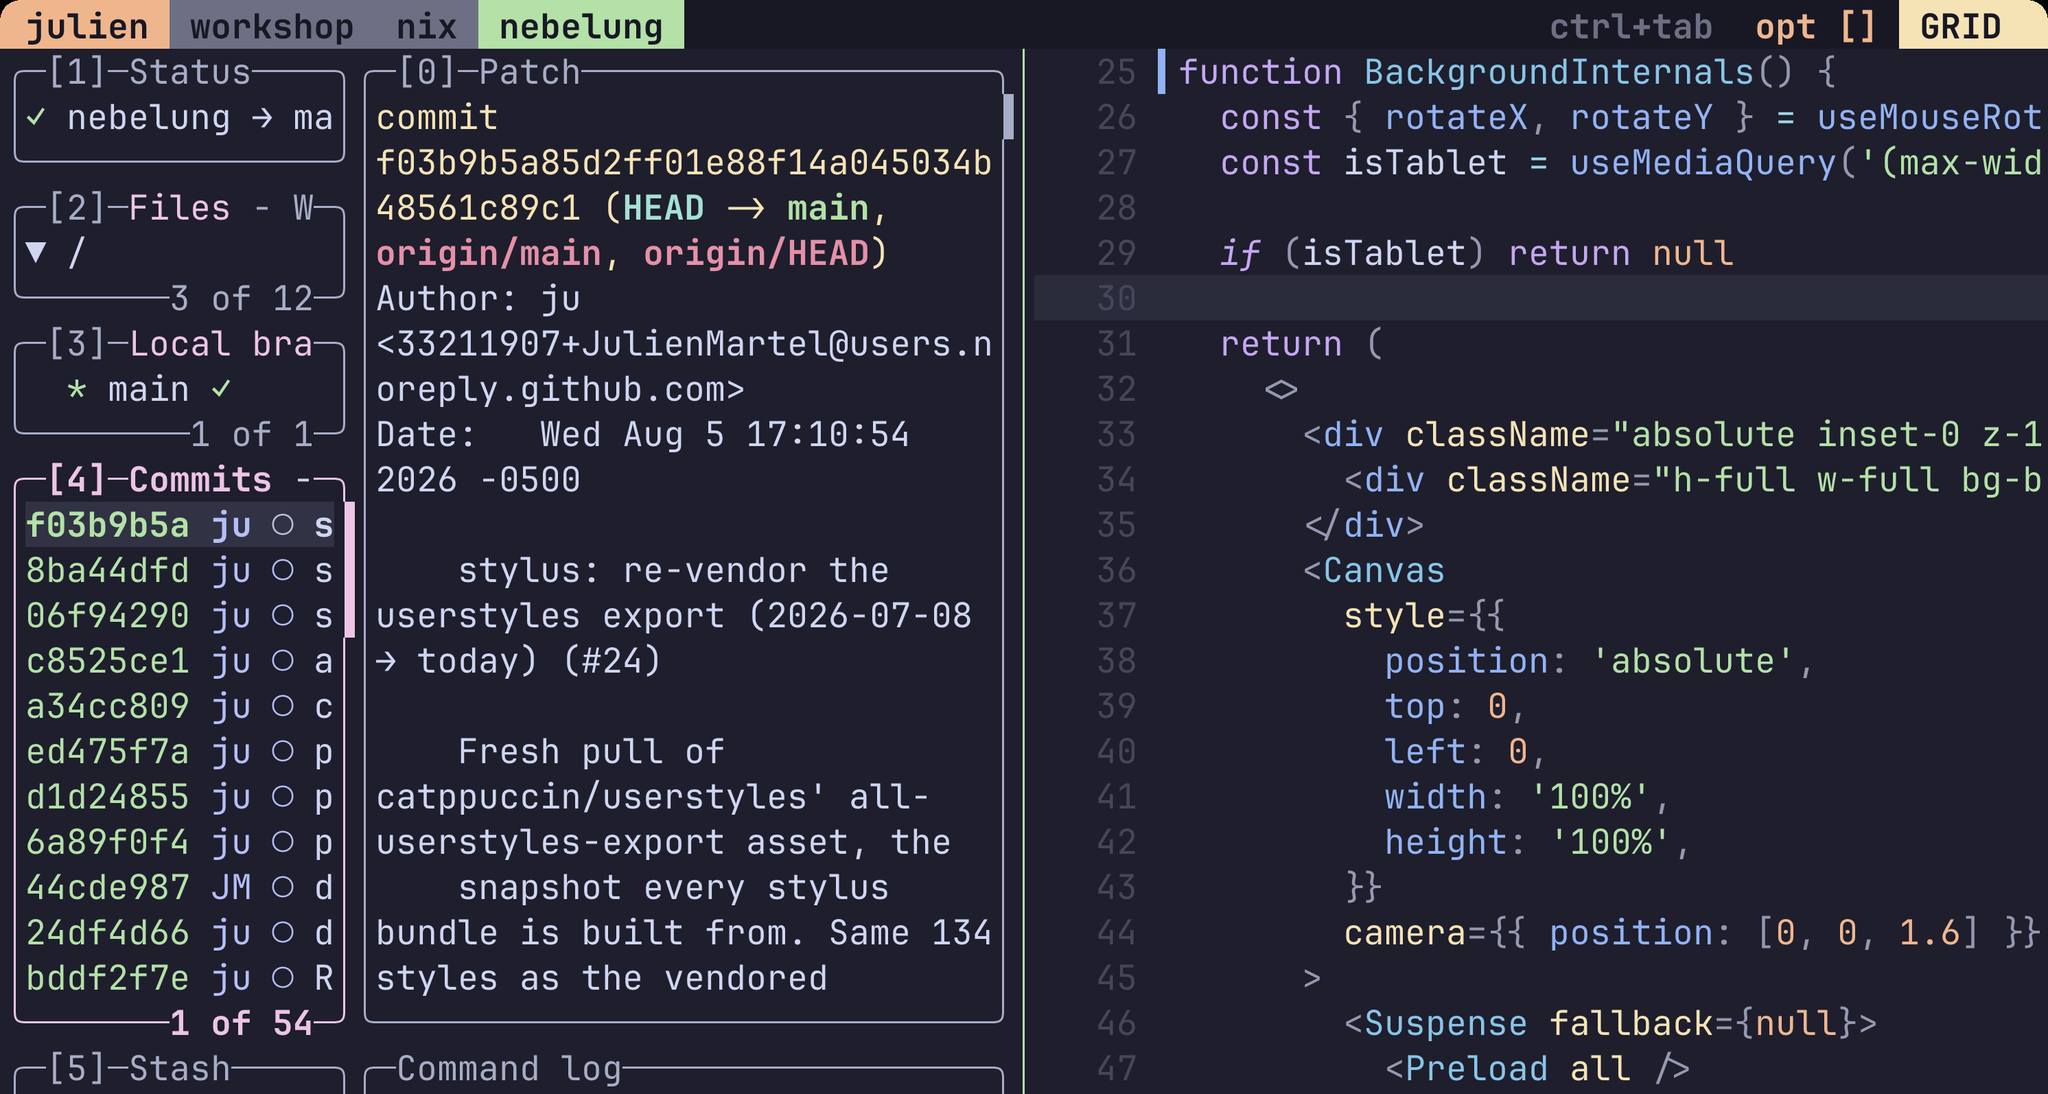
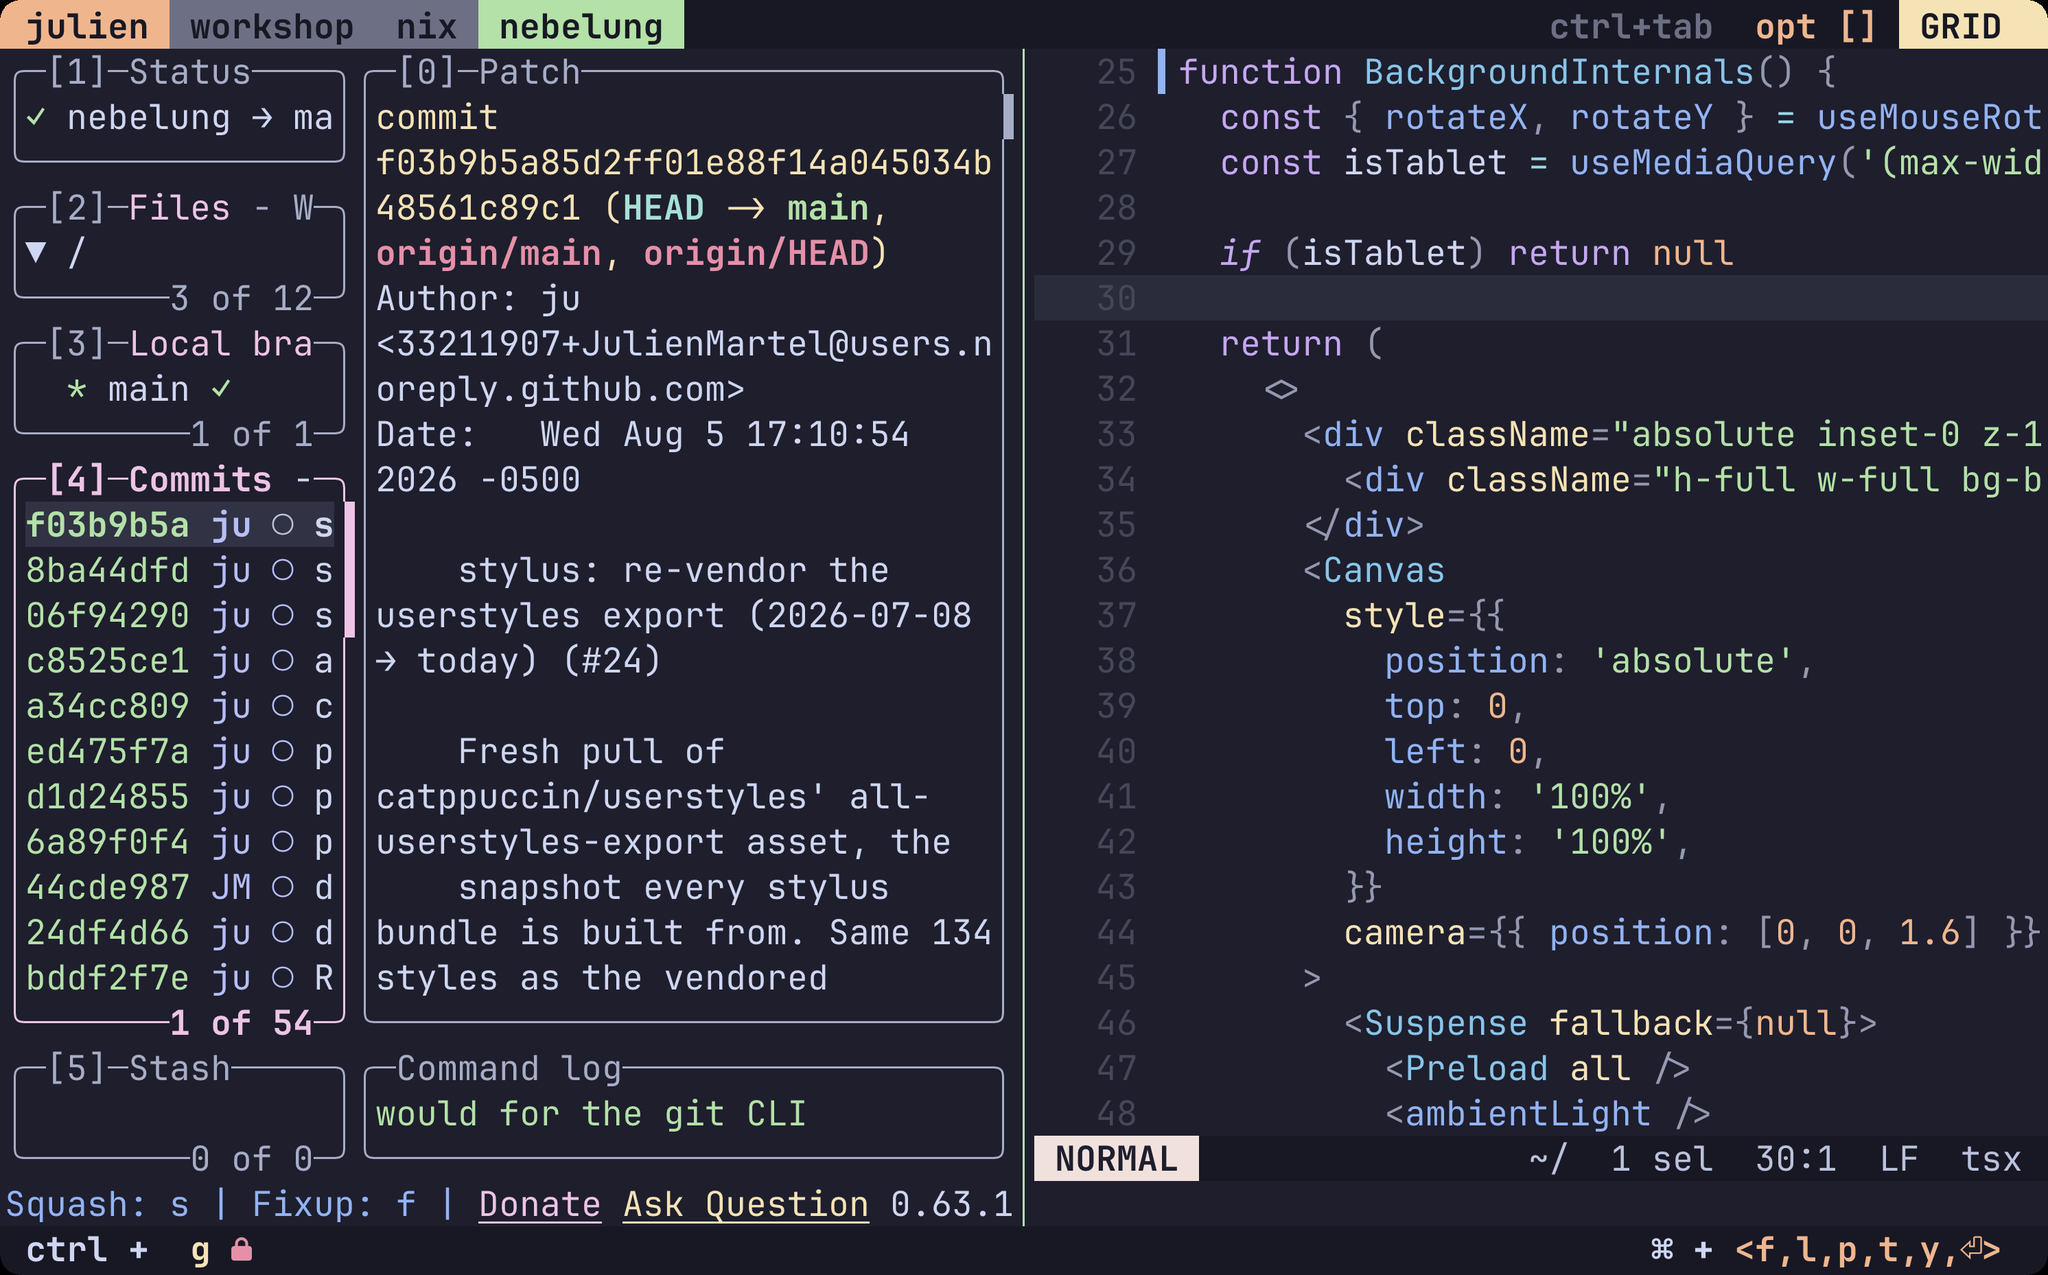
hero: drop the ramp/port-count footer, show the whole window
The footer was competing with the thing it sat under. Without it both
screenshots fit uncropped — status bars, zellij bar and all — so the fade mask
goes too. The variants still have their table in the README.

Claude-Session: https://claude.ai/code/session_016e3XEiemhHfTg9xf79soDy

diff --git a/docs/palette.md b/docs/palette.md
@@ -55,9 +55,8 @@ Re-run `node scripts/generate-palette.mjs` (or `./build.sh`) and re-open
 `assets/mocha-vs-nebelung.png` is composed, not drawn. The two halves are real
 screenshots of the same zellij session — lazygit and Neovim in Ghostty — one
 running Catppuccin Mocha, one running Nebelung; they live in `assets/scenes/`
-(2048px wide, cropped to the same rect). Everything around them — the labels,
-each base's measured OKLCH chroma, the four variant ramps, the port count —
-comes from `palette/` and `ports.meta.json`, so a recolor or a new port can't
+(whole window, 2048px wide). What's drawn around them — the labels, each base's
+hex and its measured OKLCH chroma — is read from `palette/`, so a recolor can't
 leave the hero lying:
 
 ```bash
@@ -66,6 +65,5 @@ node scripts/gen-hero.mjs --html   # stop at the throwaway HTML, to iterate on i
 ```
 
 Reshooting the scenes is the one manual step: same window, same session, flip
-the theme between the two shots, crop both to the same rect. macOS-only for
-now — it screenshots with headless Google Chrome at 2x and downscales with
+the theme between the two shots, crop both the same. macOS-only for now — it screenshots with headless Google Chrome at 2x and downscales with
 `sips`.

diff --git a/README.md b/README.md
@@ -10,7 +10,7 @@ into 53 ports.
 ![part of nebelhaus](https://img.shields.io/badge/part_of-nebelhaus-f2c4e5?labelColor=202020)
 ![license](https://img.shields.io/badge/license-MIT-d7d7d7?labelColor=202020)
 
-<img src="./assets/mocha-vs-nebelung.png" alt="the same zellij session — lazygit and Neovim in Ghostty — running Catppuccin Mocha above and Nebelung below: blue-tinted neutrals versus true-gray neutrals, with the four variant ramps beneath" width="560">
+<img src="./assets/mocha-vs-nebelung.png" alt="the same zellij session — lazygit and Neovim in Ghostty — running Catppuccin Mocha above and Nebelung below: blue-tinted neutrals versus true-gray neutrals" width="560">
 
 </div>
 
